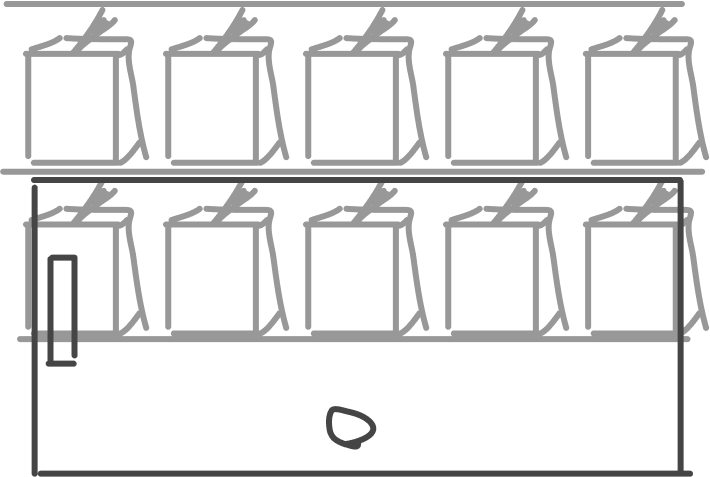
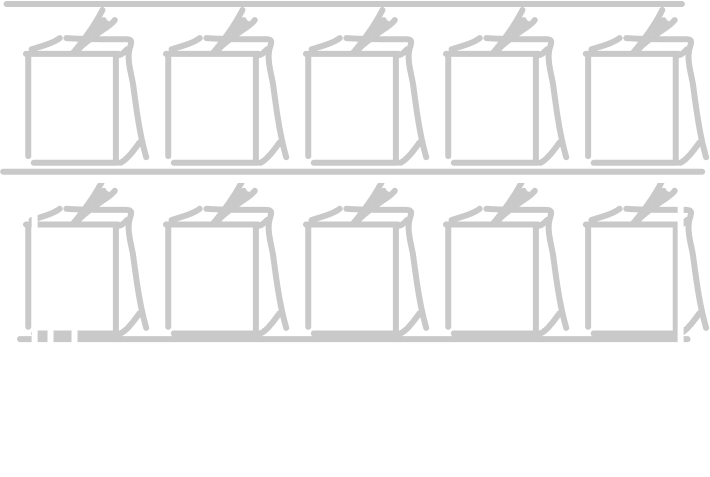
Camera Screen Redesign

Changed region(s): [[0.0, 0.0, 1.0, 1.0], [0.4338, 0.8512, 0.5268, 0.9392]]

diff --git a/lib/pages/landing_page.dart b/lib/pages/landing_page.dart
@@ -1,13 +1,17 @@
 import 'dart:developer';
 
+import 'package:camera/camera.dart';
+import 'package:flutter/cupertino.dart';
 import 'package:flutter/material.dart';
 import 'package:flutter/services.dart';
 import 'package:price_pal/components/button.dart';
 import 'package:price_pal/components/container.dart';
 import 'package:price_pal/components/screen_base.dart';
+import 'package:price_pal/pages/camera_screen.dart';
 
 class LandingPage extends StatefulWidget {
-  const LandingPage({super.key});
+  final CameraDescription camera;
+  const LandingPage({super.key, required this.camera});
 
   @override
   State<LandingPage> createState() => _LandingPageState();
@@ -18,7 +22,6 @@ class _LandingPageState extends State<LandingPage> {
 
   @override
   void initState() {
-    SystemChrome.setPreferredOrientations([DeviceOrientation.portraitUp]);
     super.initState();
     _pageViewController = PageController(initialPage: 0);
   }
@@ -32,13 +35,14 @@ class _LandingPageState extends State<LandingPage> {
   @override
   Widget build(BuildContext context) {
     return ScreenBase(
+      allowedOrientations: const [DeviceOrientation.portraitUp],
       child: MarginContainer(
         child: DecoratedContainer(
             child: Column(
           children: [
             Padding(
               padding: const EdgeInsets.all(12),
-              child: LandingProgressBar(pageController: _pageViewController, numPages: 3,),
+              child: LandingProgressBar(pageController: _pageViewController, numPages: 3, separatorColor: Theme.of(context).colorScheme.surfaceDim,),
             ),
             Expanded(
               child: PageView(
@@ -69,7 +73,9 @@ class _LandingPageState extends State<LandingPage> {
               padding: const EdgeInsets.all(8.0),
               child: Column(
                 children: [
-                  DecoratedButtonTest(text: "Sign Up", suggestedAction: true, onPressed: () {},),
+                  DecoratedButtonTest(text: "Sign Up", suggestedAction: true, onPressed: () {
+                    Navigator.pushReplacement(context, MaterialPageRoute(builder: (context) => CameraScreen(camera: widget.camera),));
+                  },),
                   DecoratedButtonTest(text: "Sign In", suggestedAction: false, onPressed: () {},),
                 ],
               ),
@@ -118,9 +124,12 @@ class ExplanationPage extends StatelessWidget {
           Expanded(
               child: Padding(
             padding: const EdgeInsets.all(8.0),
-            child: Image.asset(
-              imageAsset,
-              fit: BoxFit.contain,
+            child: Opacity(
+              opacity: 0.2,
+              child: Image.asset(
+                imageAsset,
+                fit: BoxFit.contain,
+              ),
             ),
           ))
         ],
@@ -132,7 +141,9 @@ class ExplanationPage extends StatelessWidget {
 class LandingProgressBar extends StatefulWidget {
   final PageController pageController;
   final int numPages;
-  const LandingProgressBar({super.key, required, required this.pageController, required this.numPages});
+  final Color separatorColor;
+
+  const LandingProgressBar({super.key, required, required this.pageController, required this.numPages, required this.separatorColor});
 
   @override
   State<LandingProgressBar> createState() => _LandingProgressBarState();
@@ -142,10 +153,12 @@ class _LandingProgressBarState extends State<LandingProgressBar> {
   late final int numPages;
   late double pageNum = 1 / numPages;
   late final List<Container> containers;
+  late final Color separatorColor;
 
   @override
   void initState() {
     super.initState();
+    separatorColor = widget.separatorColor;
     numPages = widget.numPages;
     containers = createContainers();
   }
@@ -184,7 +197,7 @@ class _LandingProgressBarState extends State<LandingProgressBar> {
       result.add(Container(
         width: 2,
         height: 5,
-        color: isVisible ? const Color.fromRGBO(27, 27, 27, 1) : Colors.transparent,
+        color: isVisible ? separatorColor : Colors.transparent,
       ));
     }
 

diff --git a/lib/pages/camera_screen.dart b/lib/pages/camera_screen.dart
@@ -1,0 +1,93 @@
+import 'package:camera/camera.dart';
+import 'package:flutter/material.dart';
+import 'package:price_pal/components/container.dart';
+import 'package:price_pal/components/screen_base.dart';
+
+class CameraScreen extends StatefulWidget {
+  final CameraDescription camera;
+  const CameraScreen({super.key, required this.camera});
+
+  @override
+  State<CameraScreen> createState() => _CameraScreenState();
+}
+
+class _CameraScreenState extends State<CameraScreen> {
+  @override
+  Widget build(BuildContext context) {
+    return ScreenBase(
+      child: OrientationBuilder(
+        builder: (context, orientation) {
+          return Stack(
+            children: [
+              Flex(
+                direction: orientation == Orientation.landscape
+                    ? Axis.horizontal
+                    : Axis.vertical,
+                children: [
+                  const Expanded(child: SizedBox()),
+                  MarginContainer(
+                    child: DecoratedContainer(
+                        // borderRadius: BorderRadius.circular(16),
+                        child: Center(child: CameraView(camera: widget.camera))),
+                  ),
+                  const Expanded(child: SizedBox()),
+                ],
+              )
+            ],
+          );
+        },
+      ),
+    );
+  }
+}
+
+class CameraView extends StatefulWidget {
+  final CameraDescription camera;
+  const CameraView({super.key, required this.camera});
+
+  @override
+  State<CameraView> createState() => _CameraViewState();
+}
+
+class _CameraViewState extends State<CameraView> {
+  late CameraController _controller;
+  late Future<void> _initializeControllerFuture;
+
+  @override
+  void initState() {
+    _controller = CameraController(
+      // Get a specific camera from the list of available cameras.
+      widget.camera,
+      // Define the resolution to use.
+      ResolutionPreset.medium,
+    );
+
+    // Next, initialize the controller. This returns a Future.
+    _initializeControllerFuture = _controller.initialize();
+
+    // to prevent scaling down, invert the value
+
+    super.initState();
+  }
+
+  @override
+  Widget build(BuildContext context) {
+    // calculate scale depending on screen and camera ratios
+    // this is actually size.aspectRatio / (1 / camera.aspectRatio)
+    // because camera preview size is received as landscape
+    // but we're calculating for portrait orientation
+
+    return FutureBuilder<void>(
+      future: _initializeControllerFuture,
+      builder: (context, snapshot) {
+        if (snapshot.connectionState == ConnectionState.done) {
+          // If the Future is complete, display the preview.
+          return CameraPreview(_controller);
+        } else {
+          // Otherwise, display a loading indicator.
+          return const Center(child: CircularProgressIndicator());
+        }
+      },
+    );
+  }
+}

diff --git a/lib/components/screen_base.dart b/lib/components/screen_base.dart
@@ -1,14 +1,38 @@
 import 'package:flutter/material.dart';
+import 'package:flutter/services.dart';
 
-class ScreenBase extends StatelessWidget {
+class ScreenBase extends StatefulWidget {
   final Widget child;
-  const ScreenBase({super.key, required this.child});
+  final List<DeviceOrientation>? allowedOrientations;
+
+  const ScreenBase({super.key, required this.child, this.allowedOrientations});
+
+  @override
+  State<ScreenBase> createState() => _ScreenBaseState();
+}
+
+class _ScreenBaseState extends State<ScreenBase> {
+  @override
+  void initState() {
+    super.initState();
+    if (widget.allowedOrientations != null) {
+      SystemChrome.setPreferredOrientations(widget.allowedOrientations!);
+    }
+    else {
+      SystemChrome.setPreferredOrientations([
+        DeviceOrientation.landscapeLeft,
+        DeviceOrientation.landscapeRight,
+        DeviceOrientation.portraitUp,
+        DeviceOrientation.portraitDown
+      ]);
+    }
+  }
 
   @override
   Widget build(BuildContext context) {
     return Scaffold(
       backgroundColor: Colors.black,
-      body: SafeArea(child: child),
+      body: SafeArea(child: widget.child),
     );
   }
 }
@@ -16,7 +40,7 @@ class ScreenBase extends StatelessWidget {
 class MarginContainer extends StatelessWidget {
   final Widget? child;
   const MarginContainer({super.key, this.child});
-  
+
   @override
   Widget build(BuildContext context) {
     return Padding(

diff --git a/lib/components/button.dart b/lib/components/button.dart
@@ -14,6 +14,7 @@ class DecoratedButtonTest extends StatelessWidget {
     return ElevatedButton(
         onPressed: onPressed,
         style: ButtonStyle(
+          elevation: const WidgetStatePropertyAll(0),
           minimumSize: const WidgetStatePropertyAll(Size(double.infinity, 0)),
           backgroundColor: WidgetStateProperty.resolveWith<Color?>(
             (Set<WidgetState> states) {
@@ -21,9 +22,15 @@ class DecoratedButtonTest extends StatelessWidget {
                 return Theme.of(context).colorScheme.onSecondaryFixed;
               }
               else if (!suggestedAction) {
-                return const Color(0xff1B1B1B);
+                return Colors.transparent;
               }
-              return Theme.of(context).colorScheme.primaryContainer; // Use the component's default.
+              return Theme.of(context).colorScheme.primaryContainer;
+            }),
+            foregroundColor: WidgetStateProperty.resolveWith((states) {
+                if (suggestedAction) {
+                  return Theme.of(context).colorScheme.onPrimary;
+                }
+                return null;
             }),
             shape: WidgetStatePropertyAll(RoundedRectangleBorder(borderRadius: BorderRadius.circular(5))),
         ),

diff --git a/lib/components/resize_bar.dart b/lib/components/resize_bar.dart
@@ -1,0 +1,34 @@
+import 'package:flutter/material.dart';
+
+class ResizeBar extends StatelessWidget {
+  final Function resizeFunc;
+  final bool vertical;
+  const ResizeBar(
+      {super.key, required this.resizeFunc, required this.vertical});
+
+  @override
+  Widget build(BuildContext context) {
+    return GestureDetector(
+      child: Container(
+        color: Colors.black,
+        width: vertical ? double.infinity : 17,
+        height: vertical ? 17 : double.infinity,
+        child: Center(
+          child: Container(
+            width: vertical ? 100 : 4,
+            height: vertical ? 4 : 100,
+            decoration: const BoxDecoration(
+                color: Color(0xff272727),
+                borderRadius: BorderRadius.all(Radius.circular(10))),
+          ),
+        ),
+      ),
+      onVerticalDragUpdate: (details) {
+        if (vertical) {resizeFunc(details.delta.dy);}
+      },
+      onHorizontalDragUpdate: (details) {
+        if (!vertical) {resizeFunc(details.delta.dx);}
+      },
+    );
+  }
+}

diff --git a/lib/main.dart b/lib/main.dart
@@ -2,7 +2,6 @@ import 'package:camera/camera.dart';
 import 'package:flutter/material.dart';
 import 'package:flutter/services.dart';
 import 'package:price_pal/pages/landing_page.dart';
-import 'package:price_pal/pages/main_page.dart';
 
 void main() async {
   WidgetsFlutterBinding.ensureInitialized();
@@ -24,9 +23,9 @@ class MainApp extends StatelessWidget {
       theme: ThemeData(
         fontFamily: "FakeReceipt",
         useMaterial3: true,
-        colorScheme: ColorScheme.fromSeed(seedColor: const Color(0xff5E48FE), brightness: Brightness.dark, dynamicSchemeVariant: DynamicSchemeVariant.fidelity)
+        colorScheme: ColorScheme.fromSeed(seedColor: Colors.green.shade300, brightness: Brightness.dark, dynamicSchemeVariant: DynamicSchemeVariant.fidelity)
       ),
-      home: MainPage(camera: camera,),
+      home: LandingPage(camera: camera,),
     );
   }
 }

diff --git a/lib/components/container.dart b/lib/components/container.dart
@@ -14,8 +14,8 @@ class DecoratedContainer extends StatelessWidget {
       child: Stack(
         children: [
           Container(
-            decoration: const BoxDecoration(
-              color: Color.fromRGBO(27, 27, 27, 1),
+            decoration: BoxDecoration(
+              color: Theme.of(context).colorScheme.surfaceDim,
               borderRadius: borderRadius,
             ),
             child: child,
@@ -25,7 +25,7 @@ class DecoratedContainer extends StatelessWidget {
               decoration: BoxDecoration(
                   borderRadius: borderRadius,
                   border: Border.all(
-                    color: const Color.fromRGBO(255, 255, 255, 0.05),
+                    color: const Color.fromRGBO(255, 255, 255, 0.02),
                     width: 2,
                     strokeAlign: BorderSide.strokeAlignInside,
                   )),
